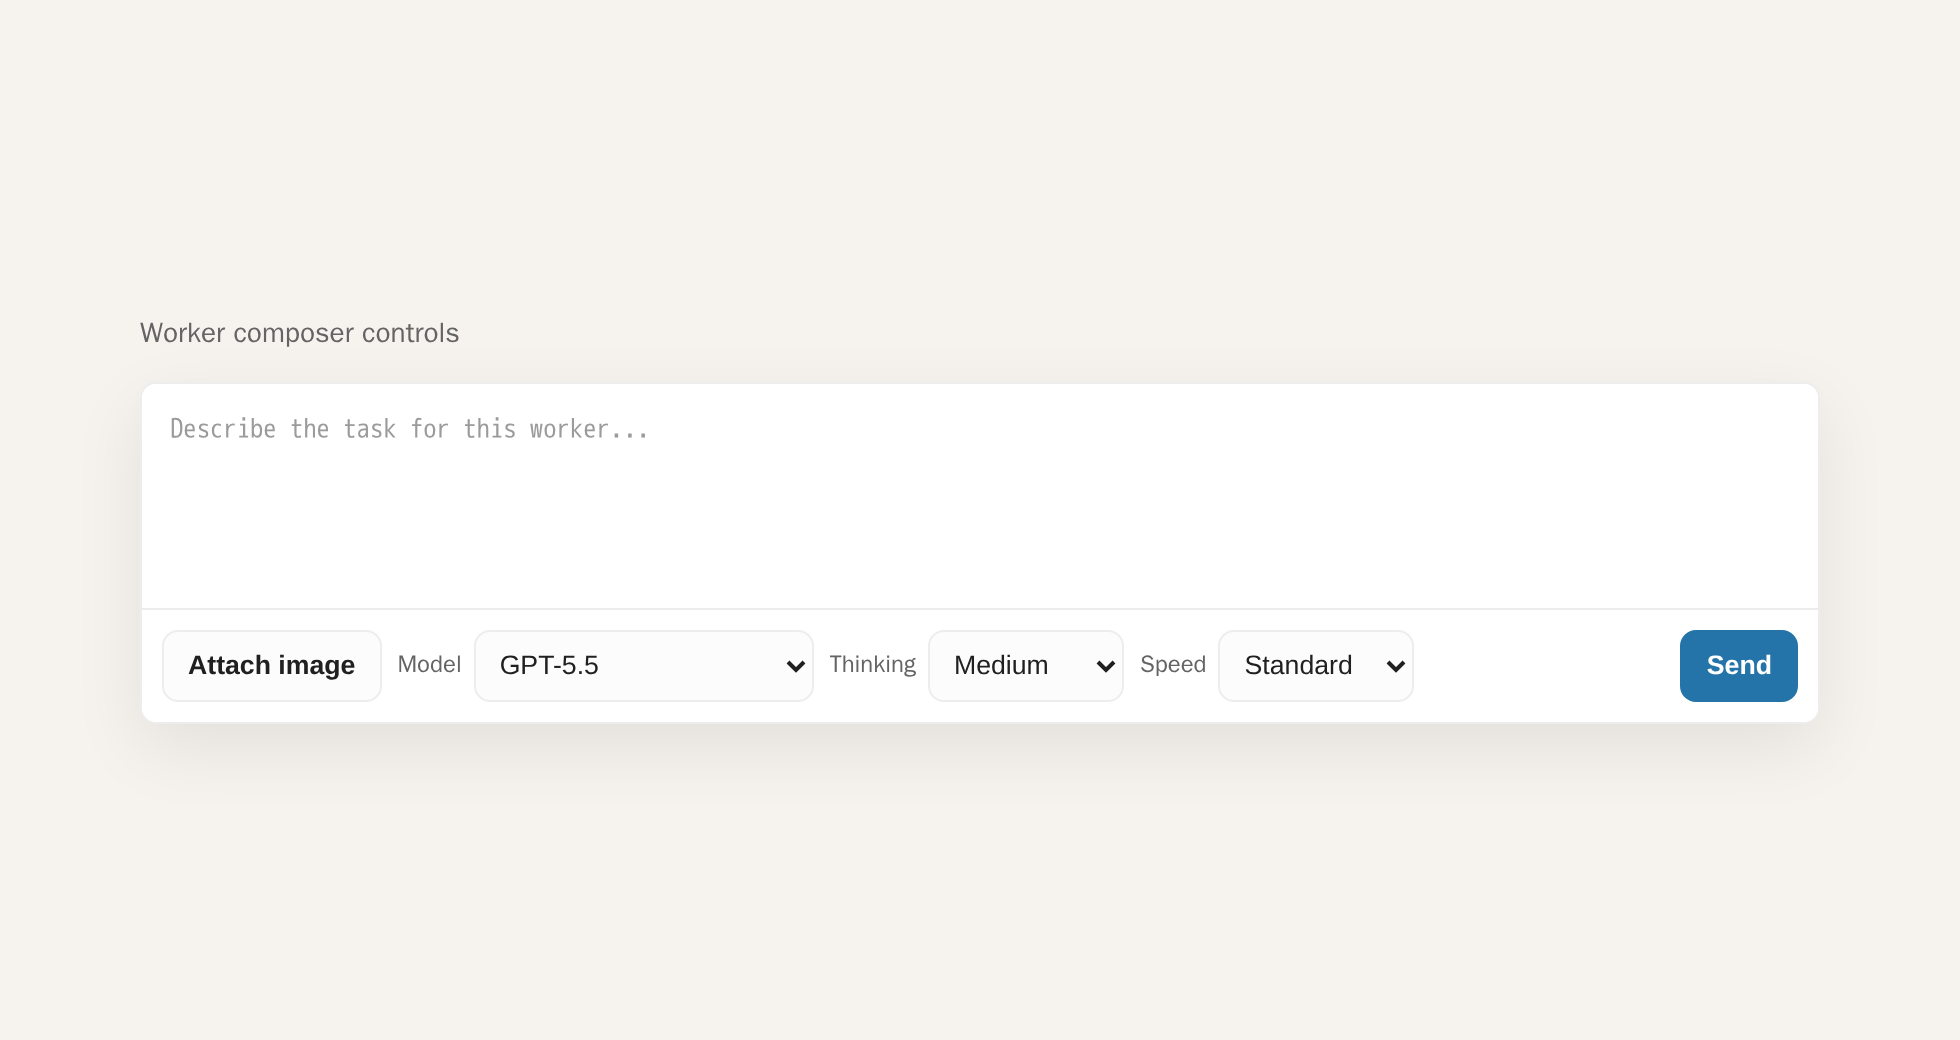
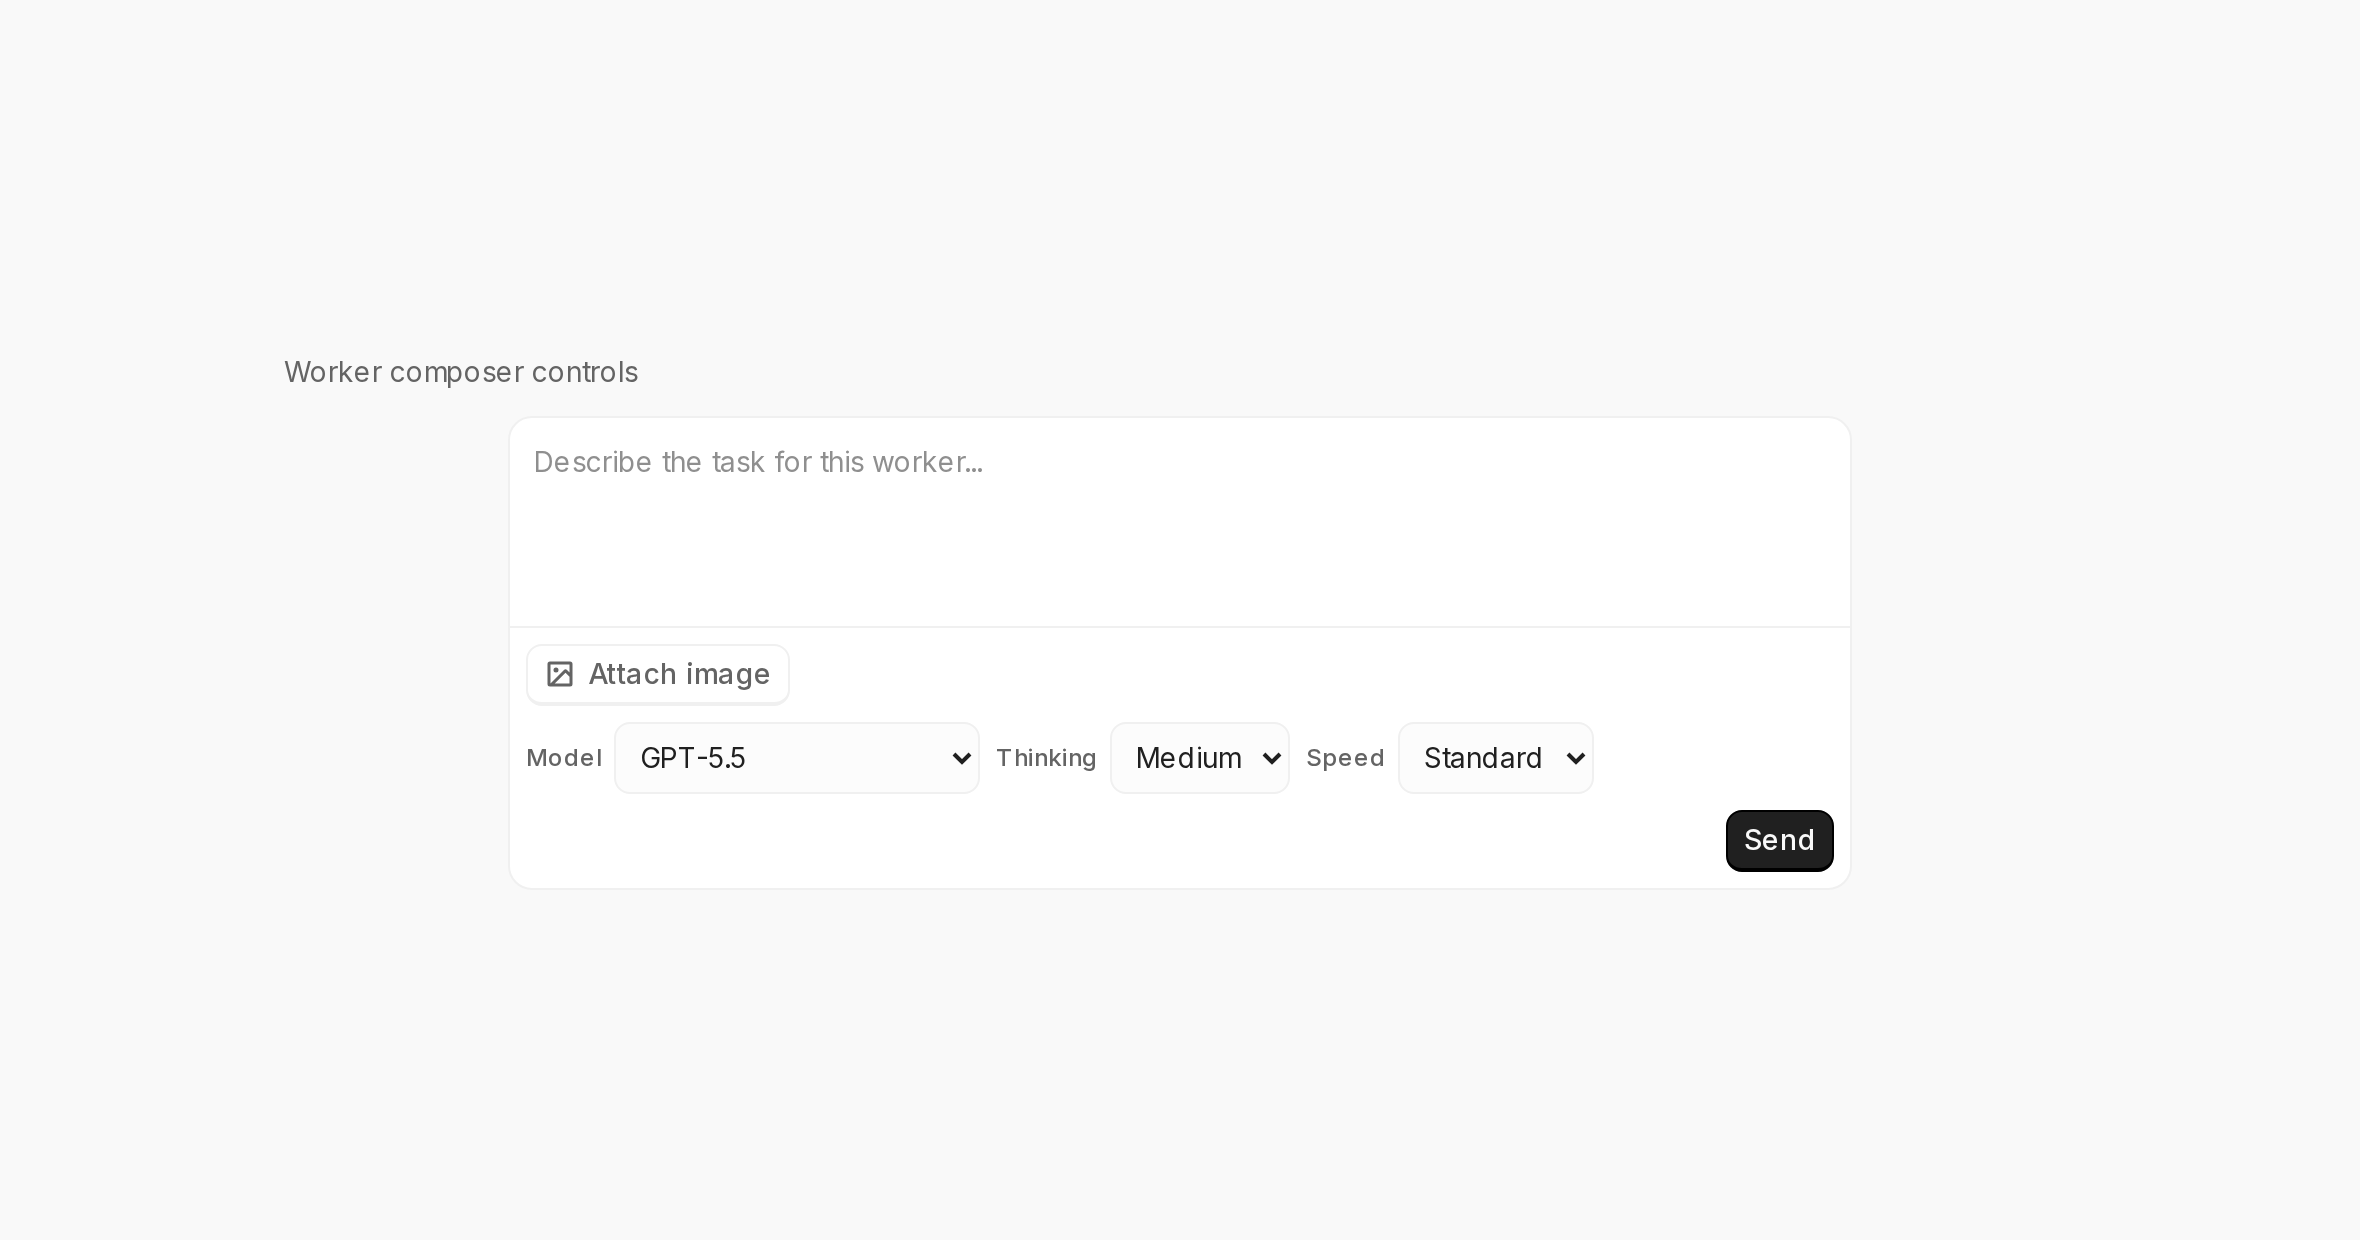
Regenerate worker controls screenshot from component

diff --git a/app/factory/[factoryId]/worker-run-form.tsx b/app/factory/[factoryId]/worker-run-form.tsx
@@ -12,21 +12,18 @@ import {
   WorkerComposer,
   type WorkerComposerPresenceControls,
 } from "@/components/factory/WorkerComposer";
+import { WorkerRunOptions } from "@/components/factory/WorkerRunOptions";
 import Button from "@/components/public/Button";
 import {
   defaultWorkerModel,
   defaultWorkerReasoningLevel,
   defaultWorkerSpeed,
-  isFastSupportedWorkerModel,
   normalizeWorkerModel,
   normalizeWorkerReasoningLevel,
   normalizeWorkerSpeed,
   type WorkerModel,
   type WorkerReasoningLevel,
   type WorkerSpeed,
-  workerModelOptions,
-  workerReasoningLevelOptions,
-  workerSpeedOptions,
 } from "@/lib/codex/worker-options";
 import type { AppDb } from "@/lib/db.client";
 import { db } from "@/lib/db.client";
@@ -333,89 +330,5 @@ function WorkerPromptFormContent({
       topSection={topSection}
       uploadingLabel="Uploading..."
     />
-  );
-}
-
-function WorkerRunOptions({
-  disabled,
-  model,
-  reasoningLevel,
-  setModel,
-  setReasoningLevel,
-  setSpeed,
-  speed,
-}: {
-  disabled?: boolean;
-  model: WorkerModel;
-  reasoningLevel: WorkerReasoningLevel;
-  setModel: (model: WorkerModel) => void;
-  setReasoningLevel: (reasoningLevel: WorkerReasoningLevel) => void;
-  setSpeed: (speed: WorkerSpeed) => void;
-  speed: WorkerSpeed;
-}) {
-  const isFastAvailable = isFastSupportedWorkerModel(model);
-
-  function onModelChange(nextModel: WorkerModel) {
-    setModel(nextModel);
-
-    if (!isFastSupportedWorkerModel(nextModel)) {
-      setSpeed("standard");
-    }
-  }
-
-  return (
-    <div className="flex flex-row flex-wrap items-center gap-2">
-      <label className="flex items-center gap-1.5 text-grayscale-11 text-xs">
-        <span className="font-medium">Model</span>
-        <select
-          className="h-9 rounded-lg border border-grayscale-3 bg-grayscale-1 px-2 text-grayscale-12 text-sm outline-none focus:border-accent-9 disabled:cursor-not-allowed disabled:text-grayscale-10 dark:bg-grayscale-3"
-          disabled={disabled}
-          onChange={(event) => onModelChange(event.target.value as WorkerModel)}
-          value={model}
-        >
-          {workerModelOptions.map((option) => (
-            <option key={option.value} value={option.value}>
-              {option.label}
-            </option>
-          ))}
-        </select>
-      </label>
-      <label className="flex items-center gap-1.5 text-grayscale-11 text-xs">
-        <span className="font-medium">Thinking</span>
-        <select
-          className="h-9 rounded-lg border border-grayscale-3 bg-grayscale-1 px-2 text-grayscale-12 text-sm outline-none focus:border-accent-9 disabled:cursor-not-allowed disabled:text-grayscale-10 dark:bg-grayscale-3"
-          disabled={disabled}
-          onChange={(event) =>
-            setReasoningLevel(event.target.value as WorkerReasoningLevel)
-          }
-          value={reasoningLevel}
-        >
-          {workerReasoningLevelOptions.map((option) => (
-            <option key={option.value} value={option.value}>
-              {option.label}
-            </option>
-          ))}
-        </select>
-      </label>
-      <label className="flex items-center gap-1.5 text-grayscale-11 text-xs">
-        <span className="font-medium">Speed</span>
-        <select
-          className="h-9 rounded-lg border border-grayscale-3 bg-grayscale-1 px-2 text-grayscale-12 text-sm outline-none focus:border-accent-9 disabled:cursor-not-allowed disabled:text-grayscale-10 dark:bg-grayscale-3"
-          disabled={disabled}
-          onChange={(event) => setSpeed(event.target.value as WorkerSpeed)}
-          value={speed}
-        >
-          {workerSpeedOptions.map((option) => (
-            <option
-              disabled={option.value === "fast" && !isFastAvailable}
-              key={option.value}
-              value={option.value}
-            >
-              {option.label}
-            </option>
-          ))}
-        </select>
-      </label>
-    </div>
   );
 }

diff --git a/components/factory/WorkerRunOptions.tsx b/components/factory/WorkerRunOptions.tsx
@@ -1,0 +1,95 @@
+"use client";
+
+import {
+  isFastSupportedWorkerModel,
+  type WorkerModel,
+  type WorkerReasoningLevel,
+  type WorkerSpeed,
+  workerModelOptions,
+  workerReasoningLevelOptions,
+  workerSpeedOptions,
+} from "@/lib/codex/worker-options";
+
+export function WorkerRunOptions({
+  disabled,
+  model,
+  reasoningLevel,
+  setModel,
+  setReasoningLevel,
+  setSpeed,
+  speed,
+}: {
+  disabled?: boolean;
+  model: WorkerModel;
+  reasoningLevel: WorkerReasoningLevel;
+  setModel: (model: WorkerModel) => void;
+  setReasoningLevel: (reasoningLevel: WorkerReasoningLevel) => void;
+  setSpeed: (speed: WorkerSpeed) => void;
+  speed: WorkerSpeed;
+}) {
+  const isFastAvailable = isFastSupportedWorkerModel(model);
+
+  function onModelChange(nextModel: WorkerModel) {
+    setModel(nextModel);
+
+    if (!isFastSupportedWorkerModel(nextModel)) {
+      setSpeed("standard");
+    }
+  }
+
+  return (
+    <div className="flex flex-row flex-wrap items-center gap-2">
+      <label className="flex items-center gap-1.5 text-grayscale-11 text-xs">
+        <span className="font-medium">Model</span>
+        <select
+          className="h-9 rounded-lg border border-grayscale-3 bg-grayscale-1 px-2 text-grayscale-12 text-sm outline-none focus:border-accent-9 disabled:cursor-not-allowed disabled:text-grayscale-10 dark:bg-grayscale-3"
+          disabled={disabled}
+          onChange={(event) => onModelChange(event.target.value as WorkerModel)}
+          value={model}
+        >
+          {workerModelOptions.map((option) => (
+            <option key={option.value} value={option.value}>
+              {option.label}
+            </option>
+          ))}
+        </select>
+      </label>
+      <label className="flex items-center gap-1.5 text-grayscale-11 text-xs">
+        <span className="font-medium">Thinking</span>
+        <select
+          className="h-9 rounded-lg border border-grayscale-3 bg-grayscale-1 px-2 text-grayscale-12 text-sm outline-none focus:border-accent-9 disabled:cursor-not-allowed disabled:text-grayscale-10 dark:bg-grayscale-3"
+          disabled={disabled}
+          onChange={(event) =>
+            setReasoningLevel(event.target.value as WorkerReasoningLevel)
+          }
+          value={reasoningLevel}
+        >
+          {workerReasoningLevelOptions.map((option) => (
+            <option key={option.value} value={option.value}>
+              {option.label}
+            </option>
+          ))}
+        </select>
+      </label>
+      <label className="flex items-center gap-1.5 text-grayscale-11 text-xs">
+        <span className="font-medium">Speed</span>
+        <select
+          className="h-9 rounded-lg border border-grayscale-3 bg-grayscale-1 px-2 text-grayscale-12 text-sm outline-none focus:border-accent-9 disabled:cursor-not-allowed disabled:text-grayscale-10 dark:bg-grayscale-3"
+          disabled={disabled}
+          onChange={(event) => setSpeed(event.target.value as WorkerSpeed)}
+          value={speed}
+        >
+          {workerSpeedOptions.map((option) => (
+            <option
+              disabled={option.value === "fast" && !isFastAvailable}
+              key={option.value}
+              value={option.value}
+            >
+              {option.label}
+            </option>
+          ))}
+        </select>
+      </label>
+    </div>
+  );
+}
